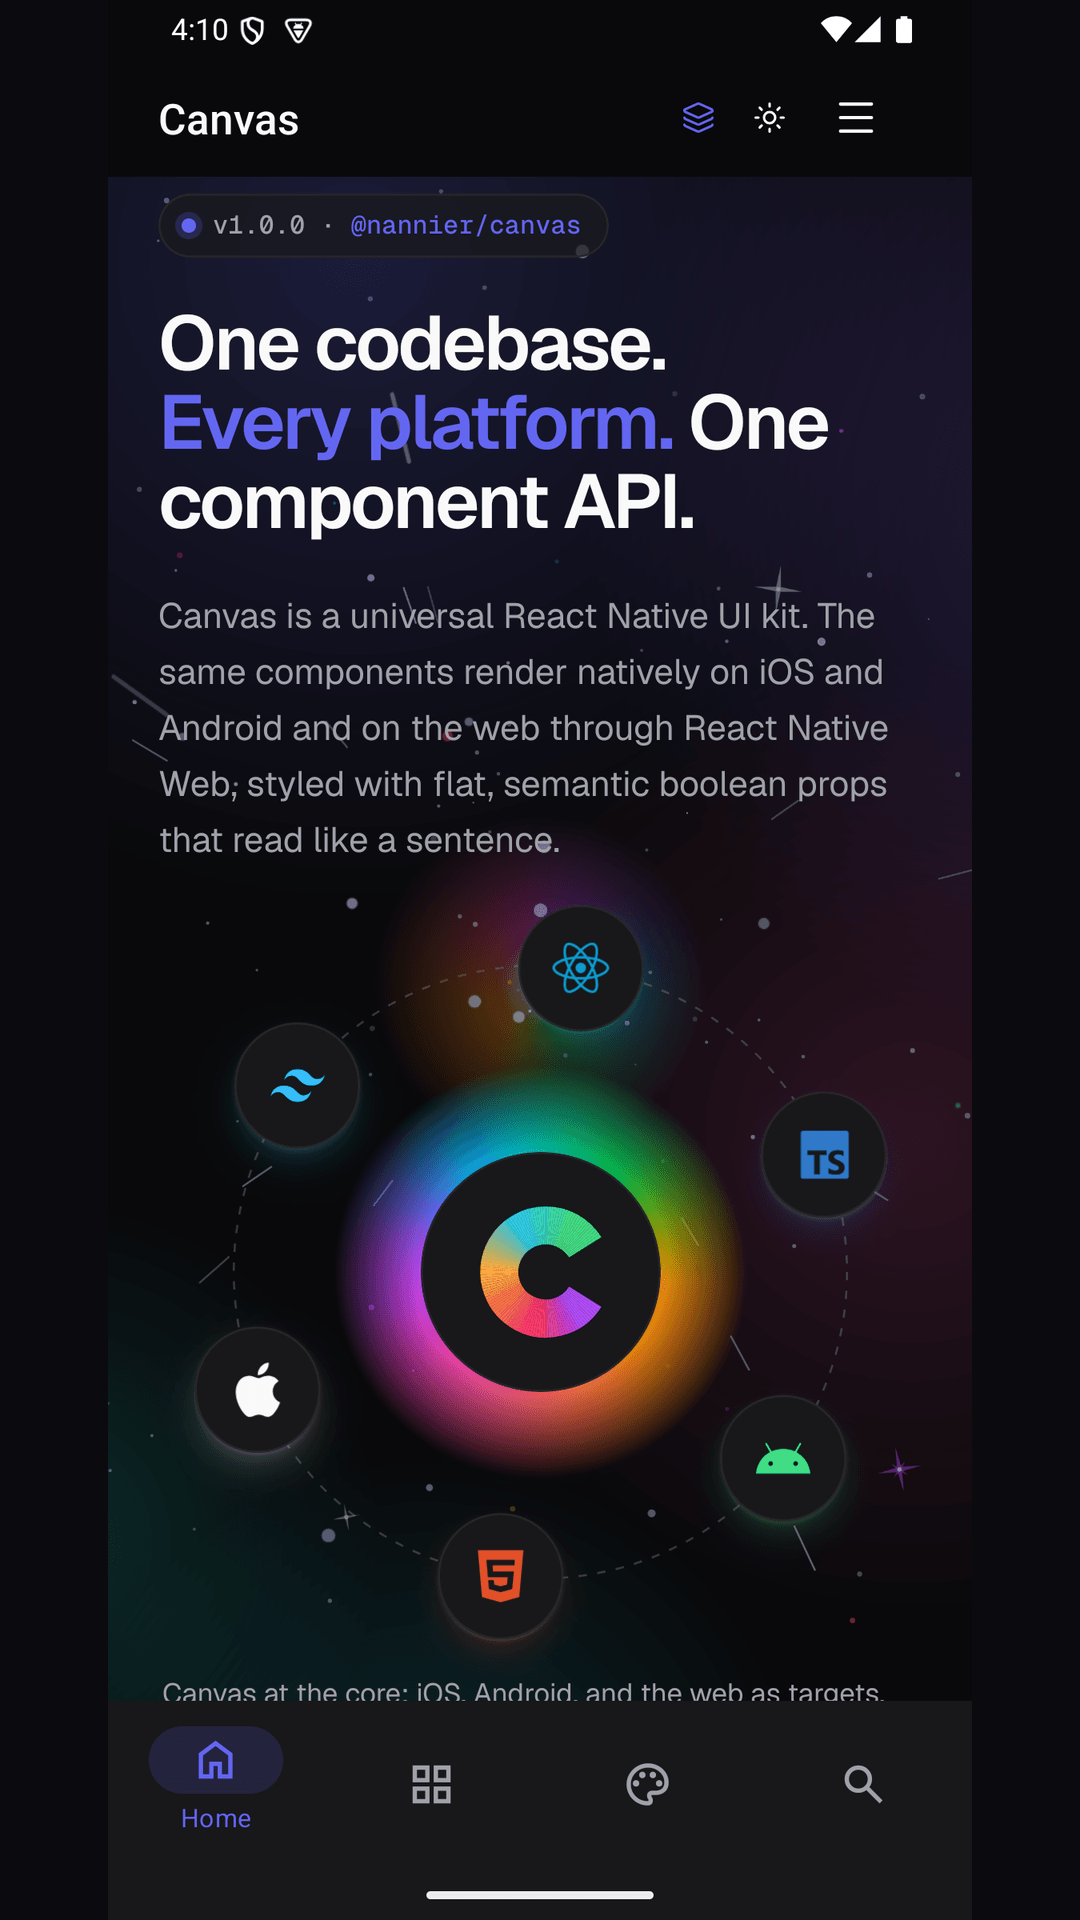
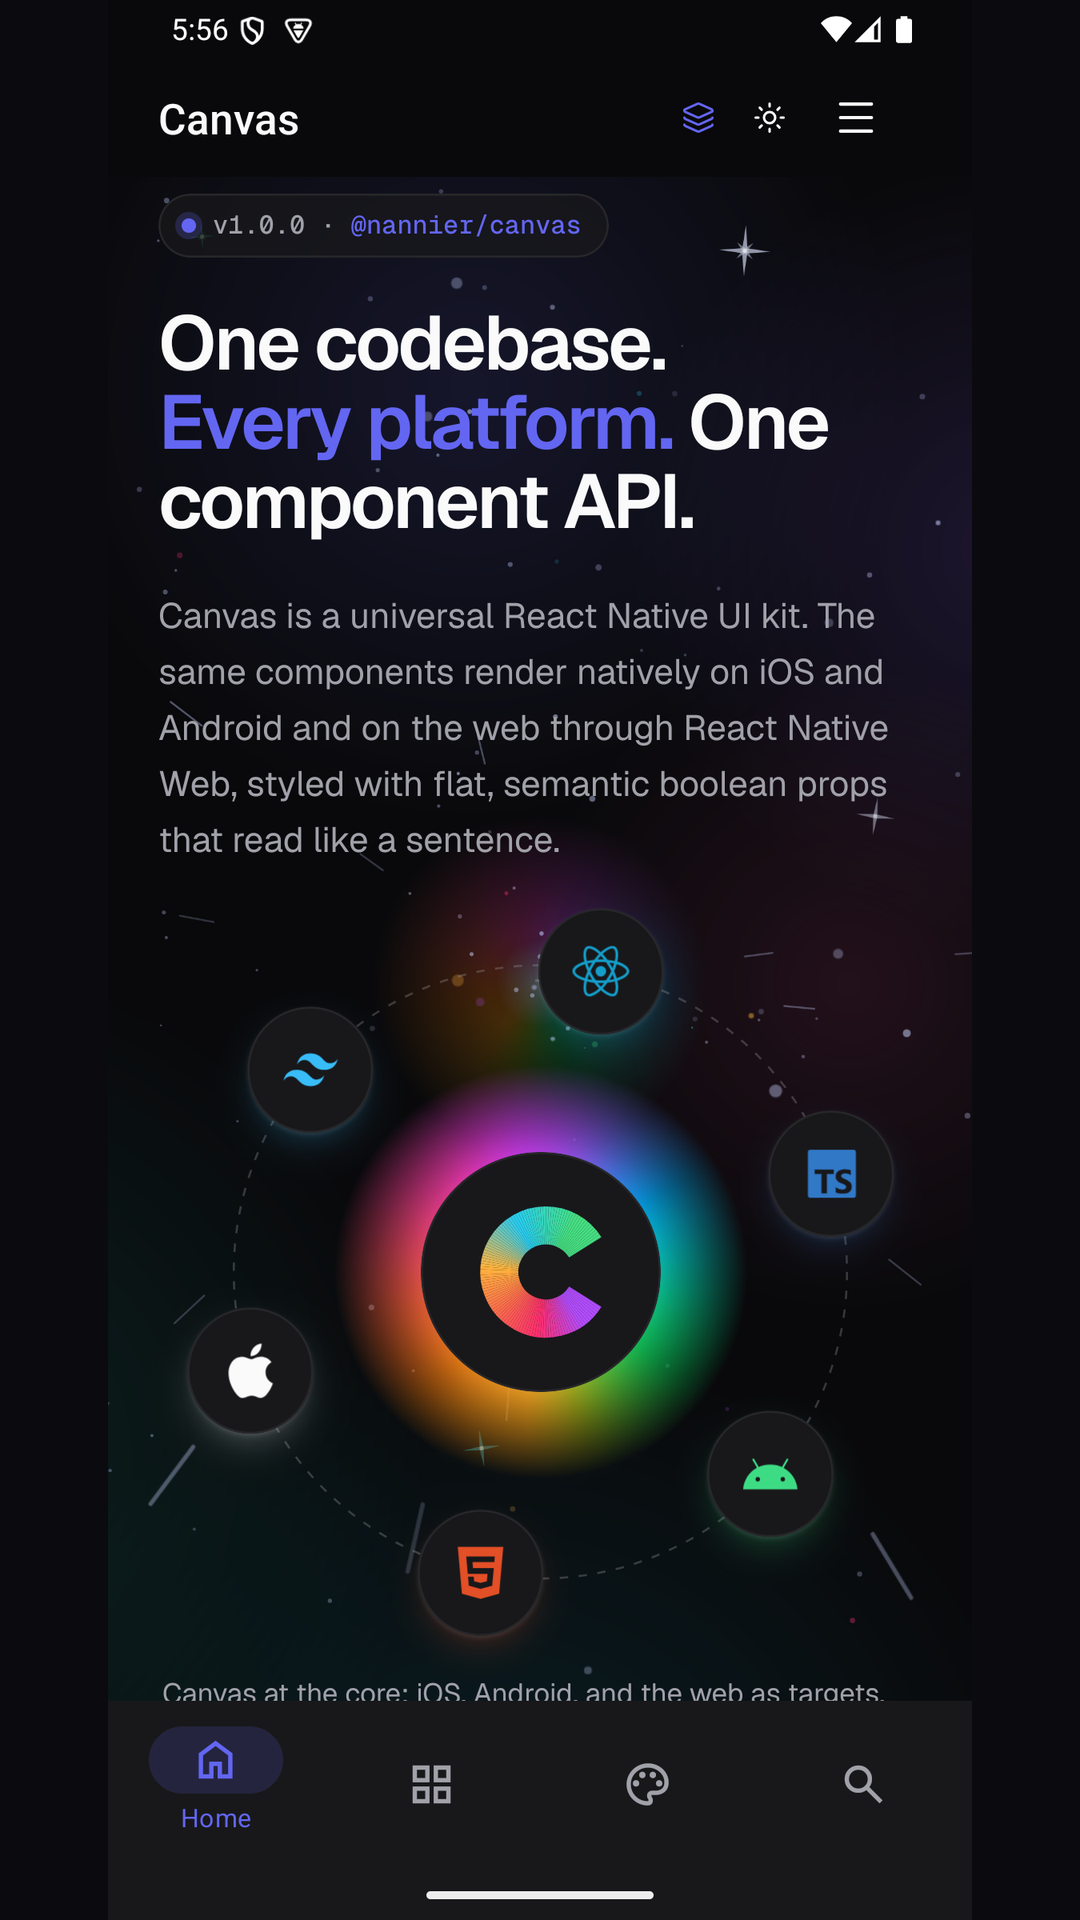
chore(store): recapture the full screenshot set across all three platforms
Ten screens chosen by the owner, captured identically on iPhone 6.9in
(1320x2868), iPad 13in (2064x2752) and Android phone (1080x1920): home,
ButtonGroup, Chip/status, Icon/gallery, Form/twocolumn, Calendar/range,
CandlestickChart, Heatmap, and the Billing and Signin templates.

The previous set shipped a screenshot of the Button page labelled as the data
table, because captures fired a deep link, slept a fixed interval, and saved
whatever was on screen. Worse, simctl launch errors were being redirected to
/dev/null, so a failed launch silently produced screenshots of the iOS
springboard. Captures now run through a harness that verifies three things per
shot and fails loudly instead: the app is genuinely foreground (launch output
is no longer swallowed, and Android checks mCurrentFocus), the frame is not the
springboard or launcher (mean luma of the dark app UI versus a light
wallpaper), and the frame differs from the previous route so a swallowed deep
link cannot silently re-save the last screen.

That harness caught CandlestickChart failing to resolve on iPad and Android,
where the router fell back to an earlier entry; those two were recaptured via
the catalog with a longer settle. A final all-pairs comparison over the content
band confirms all thirty are distinct, correctly sized, and free of the alpha
channel that simctl and adb both write and that both stores reject.

diff --git a/store/SUBMISSION.md b/store/SUBMISSION.md
@@ -24,8 +24,8 @@ truth for both stores' data declarations.
 | ASC App Privacy | Data Not Collected, privacy URL set; **awaiting the owner's Publish attestation** |
 | iOS production build | Blocked on the above |
 | iPhone 6.9" screenshots | Done, 10 in `store/screenshots/ios` (Apple's max) |
-| iPad 13" screenshots | Done, 4 in `store/screenshots/ipad` |
-| Android phone screenshots | Done, 5 in `store/screenshots/android` |
+| iPad 13" screenshots | Done, 10 in `store/screenshots/ipad` |
+| Android phone screenshots | Done, 10 in `store/screenshots/android` |
 
 The two blocked rows are the only things standing between here and a submission, and
 both need the account owner: they cost money, require identity verification, and can
